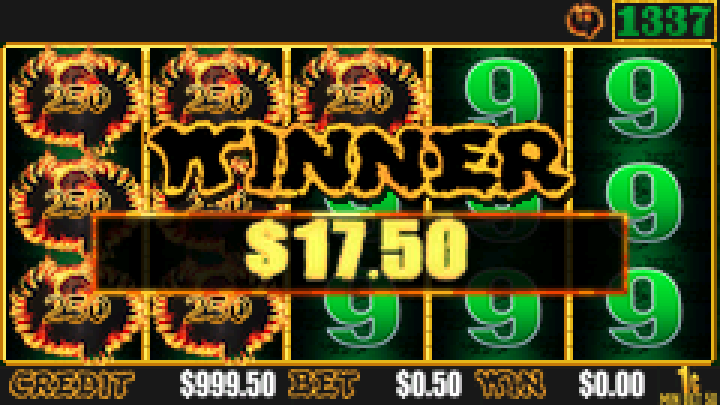
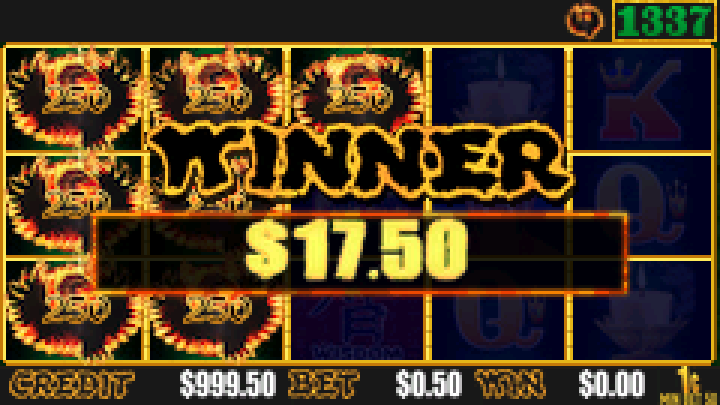
Replay gallery tally through actual Hold presentation

diff --git a/docs/graphics.md b/docs/graphics.md
@@ -129,6 +129,8 @@ Reel recoil and stagger are reconstructed from footage. Code: [reel motion](../f
 
 ## Fast Phoenix tally
 
+Unfilled Hold positions retain subdued background symbols behind the held Phoenixes.
+
 <img src="media/collection-fast-total.png" alt="Remaining Phoenix amounts collected with one blue press" width="720">
 
 ## Feature effects
